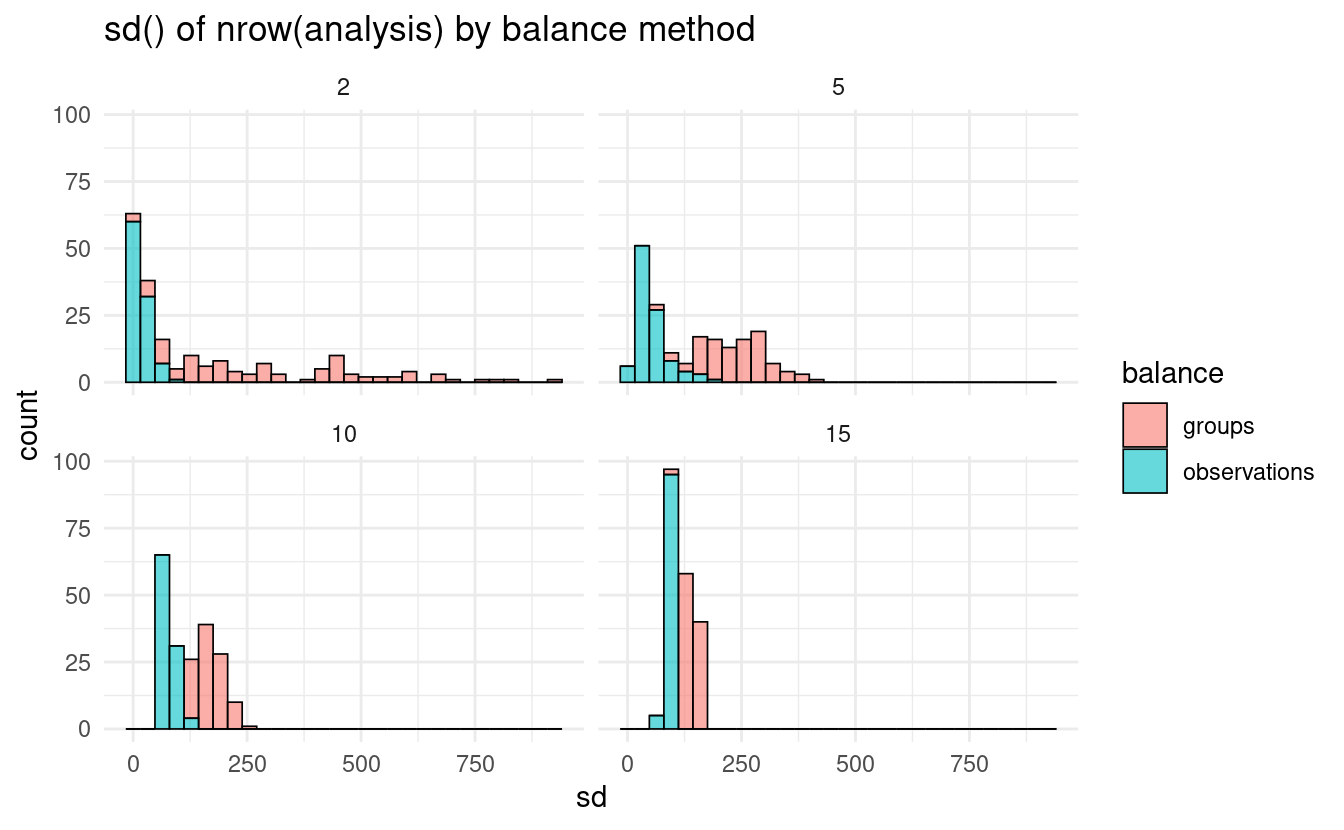
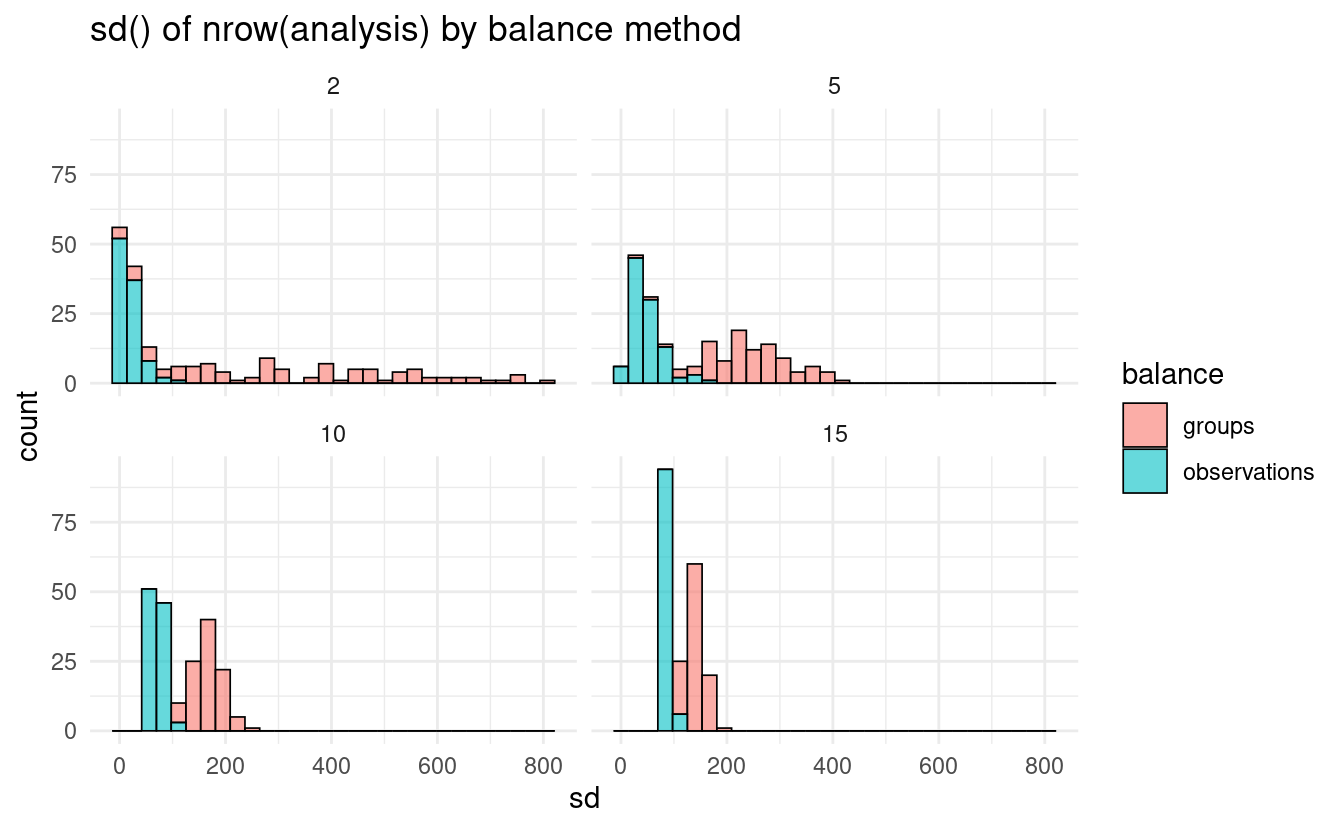
Use older downlit

diff --git a/content/blog/rsample-1-1-0/index.md b/content/blog/rsample-1-1-0/index.md
@@ -38,7 +38,7 @@ You can install it from CRAN with:
 
 <div class="highlight">
 
-<pre class='chroma'><code class='language-r' data-lang='r'><span><span class='nf'><a href='https://rdrr.io/r/utils/install.packages.html'>install.packages</a></span><span class='o'>(</span><span class='s'>"rsample"</span><span class='o'>)</span></span></code></pre>
+<pre class='chroma'><code class='language-r' data-lang='r'><span class='nf'><a href='https://rdrr.io/r/utils/install.packages.html'>install.packages</a></span><span class='o'>(</span><span class='s'>"rsample"</span><span class='o'>)</span></code></pre>
 
 </div>
 
@@ -52,17 +52,18 @@ The rsample package has supported grouped v-fold cross-validation for a few year
 
 <div class="highlight">
 
-<pre class='chroma'><code class='language-r' data-lang='r'><span><span class='kr'><a href='https://rdrr.io/r/base/library.html'>library</a></span><span class='o'>(</span><span class='nv'><a href='http://purrr.tidyverse.org'>purrr</a></span><span class='o'>)</span></span>
-<span><span class='kr'><a href='https://rdrr.io/r/base/library.html'>library</a></span><span class='o'>(</span><span class='nv'><a href='https://rsample.tidymodels.org'>rsample</a></span><span class='o'>)</span></span>
-<span><span class='nf'><a href='https://rdrr.io/r/utils/data.html'>data</a></span><span class='o'>(</span><span class='nv'>ames</span>, package <span class='o'>=</span> <span class='s'>"modeldata"</span><span class='o'>)</span></span>
-<span></span>
-<span><span class='nv'>resample</span> <span class='o'>&lt;-</span> <span class='nf'><a href='https://rsample.tidymodels.org/reference/group_vfold_cv.html'>group_vfold_cv</a></span><span class='o'>(</span><span class='nv'>ames</span>, group <span class='o'>=</span> <span class='nv'>Neighborhood</span>, v <span class='o'>=</span> <span class='m'>2</span><span class='o'>)</span></span>
-<span></span>
-<span><span class='nv'>resample</span><span class='o'>$</span><span class='nv'>splits</span> <span class='o'><a href='https://magrittr.tidyverse.org/reference/pipe.html'>%&gt;%</a></span></span>
-<span>  <span class='nf'><a href='https://purrr.tidyverse.org/reference/map.html'>map_lgl</a></span><span class='o'>(</span><span class='kr'>function</span><span class='o'>(</span><span class='nv'>x</span><span class='o'>)</span> <span class='o'>&#123;</span></span>
-<span>    <span class='nf'><a href='https://rdrr.io/r/base/any.html'>any</a></span><span class='o'>(</span><span class='nf'><a href='https://rsample.tidymodels.org/reference/as.data.frame.rsplit.html'>assessment</a></span><span class='o'>(</span><span class='nv'>x</span><span class='o'>)</span><span class='o'>$</span><span class='nv'>Neighborhood</span> <span class='o'><a href='https://rdrr.io/r/base/match.html'>%in%</a></span> <span class='nf'><a href='https://rsample.tidymodels.org/reference/as.data.frame.rsplit.html'>analysis</a></span><span class='o'>(</span><span class='nv'>x</span><span class='o'>)</span><span class='o'>$</span><span class='nv'>Neighborhood</span><span class='o'>)</span></span>
-<span>  <span class='o'>&#125;</span></span>
-<span><span class='o'>)</span></span><span><span class='c'>#&gt; [1] FALSE FALSE</span></span></code></pre>
+<pre class='chroma'><code class='language-r' data-lang='r'><span class='kr'><a href='https://rdrr.io/r/base/library.html'>library</a></span><span class='o'>(</span><span class='nv'><a href='http://purrr.tidyverse.org'>purrr</a></span><span class='o'>)</span>
+<span class='kr'><a href='https://rdrr.io/r/base/library.html'>library</a></span><span class='o'>(</span><span class='nv'><a href='https://rsample.tidymodels.org'>rsample</a></span><span class='o'>)</span>
+<span class='nf'><a href='https://rdrr.io/r/utils/data.html'>data</a></span><span class='o'>(</span><span class='nv'>ames</span>, package <span class='o'>=</span> <span class='s'>"modeldata"</span><span class='o'>)</span>
+
+<span class='nv'>resample</span> <span class='o'>&lt;-</span> <span class='nf'><a href='https://rsample.tidymodels.org/reference/group_vfold_cv.html'>group_vfold_cv</a></span><span class='o'>(</span><span class='nv'>ames</span>, group <span class='o'>=</span> <span class='nv'>Neighborhood</span>, v <span class='o'>=</span> <span class='m'>2</span><span class='o'>)</span>
+
+<span class='nv'>resample</span><span class='o'>$</span><span class='nv'>splits</span> <span class='o'>%&gt;%</span>
+  <span class='nf'><a href='https://purrr.tidyverse.org/reference/map.html'>map_lgl</a></span><span class='o'>(</span><span class='kr'>function</span><span class='o'>(</span><span class='nv'>x</span><span class='o'>)</span> <span class='o'>&#123;</span>
+    <span class='nf'><a href='https://rdrr.io/r/base/any.html'>any</a></span><span class='o'>(</span><span class='nf'><a href='https://rsample.tidymodels.org/reference/as.data.frame.rsplit.html'>assessment</a></span><span class='o'>(</span><span class='nv'>x</span><span class='o'>)</span><span class='o'>$</span><span class='nv'>Neighborhood</span> <span class='o'>%in%</span> <span class='nf'><a href='https://rsample.tidymodels.org/reference/as.data.frame.rsplit.html'>analysis</a></span><span class='o'>(</span><span class='nv'>x</span><span class='o'>)</span><span class='o'>$</span><span class='nv'>Neighborhood</span><span class='o'>)</span>
+  <span class='o'>&#125;</span>
+<span class='o'>)</span>
+<span class='c'>#&gt; [1] FALSE FALSE</span></code></pre>
 
 </div>
 
@@ -70,30 +71,37 @@ rsample 1.1.0 extends this support by adding four new functions for grouped resa
 
 <div class="highlight">
 
-<pre class='chroma'><code class='language-r' data-lang='r'><span><span class='c'># Bootstrap resampling with replacement:</span></span>
-<span><span class='nf'><a href='https://rsample.tidymodels.org/reference/group_bootstraps.html'>group_bootstraps</a></span><span class='o'>(</span><span class='nv'>ames</span>, <span class='nv'>Neighborhood</span>, times <span class='o'>=</span> <span class='m'>1</span><span class='o'>)</span></span><span><span class='c'>#&gt; # Group bootstrap sampling </span></span>
-<span><span class='c'>#&gt; <span style='color: #555555;'># A tibble: 1 × 2</span></span></span>
-<span><span class='c'>#&gt;   splits             id        </span></span>
-<span><span class='c'>#&gt;   <span style='color: #555555; font-style: italic;'>&lt;list&gt;</span>             <span style='color: #555555; font-style: italic;'>&lt;chr&gt;</span>     </span></span>
-<span><span class='c'>#&gt; <span style='color: #555555;'>1</span> <span style='color: #555555;'>&lt;split [2737/752]&gt;</span> Bootstrap1</span></span><span></span>
-<span></span>
-<span><span class='c'># Random resampling without replacement:</span></span>
-<span><span class='nf'><a href='https://rsample.tidymodels.org/reference/group_mc_cv.html'>group_mc_cv</a></span><span class='o'>(</span><span class='nv'>ames</span>, <span class='nv'>Neighborhood</span>, times <span class='o'>=</span> <span class='m'>1</span><span class='o'>)</span></span><span><span class='c'>#&gt; # Group Monte Carlo cross-validation (0.75/0.25) with 1 resamples  </span></span>
-<span><span class='c'>#&gt; <span style='color: #555555;'># A tibble: 1 × 2</span></span></span>
-<span><span class='c'>#&gt;   splits             id       </span></span>
-<span><span class='c'>#&gt;   <span style='color: #555555; font-style: italic;'>&lt;list&gt;</span>             <span style='color: #555555; font-style: italic;'>&lt;chr&gt;</span>    </span></span>
-<span><span class='c'>#&gt; <span style='color: #555555;'>1</span> <span style='color: #555555;'>&lt;split [2123/807]&gt;</span> Resample1</span></span><span></span>
-<span></span>
-<span><span class='c'># Data splitting to create a validation set:</span></span>
-<span><span class='nf'><a href='https://rsample.tidymodels.org/reference/validation_split.html'>group_validation_split</a></span><span class='o'>(</span><span class='nv'>ames</span>, <span class='nv'>Neighborhood</span><span class='o'>)</span></span><span><span class='c'>#&gt; # Group Validation Set Split (0.75/0.25)  </span></span>
-<span><span class='c'>#&gt; <span style='color: #555555;'># A tibble: 1 × 2</span></span></span>
-<span><span class='c'>#&gt;   splits             id        </span></span>
-<span><span class='c'>#&gt;   <span style='color: #555555; font-style: italic;'>&lt;list&gt;</span>             <span style='color: #555555; font-style: italic;'>&lt;chr&gt;</span>     </span></span>
-<span><span class='c'>#&gt; <span style='color: #555555;'>1</span> <span style='color: #555555;'>&lt;split [2160/770]&gt;</span> validation</span></span><span></span>
-<span></span>
-<span><span class='c'># Data splitting to create an initial training/testing split:</span></span>
-<span><span class='nf'><a href='https://rsample.tidymodels.org/reference/initial_split.html'>group_initial_split</a></span><span class='o'>(</span><span class='nv'>ames</span>, <span class='nv'>Neighborhood</span><span class='o'>)</span></span><span><span class='c'>#&gt; &lt;Training/Testing/Total&gt;</span></span>
-<span><span class='c'>#&gt; &lt;2195/735/2930&gt;</span></span></code></pre>
+<pre class='chroma'><code class='language-r' data-lang='r'><span class='c'># Bootstrap resampling with replacement:</span>
+<span class='nf'><a href='https://rsample.tidymodels.org/reference/group_bootstraps.html'>group_bootstraps</a></span><span class='o'>(</span><span class='nv'>ames</span>, <span class='nv'>Neighborhood</span>, times <span class='o'>=</span> <span class='m'>1</span><span class='o'>)</span>
+<span class='c'>#&gt; # Group bootstrap sampling </span>
+<span class='c'>#&gt; <span style='color: #555555;'># A tibble: 1 × 2</span></span>
+<span class='c'>#&gt;   splits              id        </span>
+<span class='c'>#&gt;   <span style='color: #555555; font-style: italic;'>&lt;list&gt;</span>              <span style='color: #555555; font-style: italic;'>&lt;chr&gt;</span>     </span>
+<span class='c'>#&gt; <span style='color: #555555;'>1</span> <span style='color: #555555;'>&lt;split [3045/1151]&gt;</span> Bootstrap1</span>
+
+
+<span class='c'># Random resampling without replacement:</span>
+<span class='nf'><a href='https://rsample.tidymodels.org/reference/group_mc_cv.html'>group_mc_cv</a></span><span class='o'>(</span><span class='nv'>ames</span>, <span class='nv'>Neighborhood</span>, times <span class='o'>=</span> <span class='m'>1</span><span class='o'>)</span>
+<span class='c'>#&gt; # Group Monte Carlo cross-validation (0.75/0.25) with 1 resamples  </span>
+<span class='c'>#&gt; <span style='color: #555555;'># A tibble: 1 × 2</span></span>
+<span class='c'>#&gt;   splits             id       </span>
+<span class='c'>#&gt;   <span style='color: #555555; font-style: italic;'>&lt;list&gt;</span>             <span style='color: #555555; font-style: italic;'>&lt;chr&gt;</span>    </span>
+<span class='c'>#&gt; <span style='color: #555555;'>1</span> <span style='color: #555555;'>&lt;split [2205/725]&gt;</span> Resample1</span>
+
+
+<span class='c'># Data splitting to create a validation set:</span>
+<span class='nf'><a href='https://rsample.tidymodels.org/reference/validation_split.html'>group_validation_split</a></span><span class='o'>(</span><span class='nv'>ames</span>, <span class='nv'>Neighborhood</span><span class='o'>)</span>
+<span class='c'>#&gt; # Group Validation Set Split (0.75/0.25)  </span>
+<span class='c'>#&gt; <span style='color: #555555;'># A tibble: 1 × 2</span></span>
+<span class='c'>#&gt;   splits             id        </span>
+<span class='c'>#&gt;   <span style='color: #555555; font-style: italic;'>&lt;list&gt;</span>             <span style='color: #555555; font-style: italic;'>&lt;chr&gt;</span>     </span>
+<span class='c'>#&gt; <span style='color: #555555;'>1</span> <span style='color: #555555;'>&lt;split [2188/742]&gt;</span> validation</span>
+
+
+<span class='c'># Data splitting to create an initial training/testing split:</span>
+<span class='nf'><a href='https://rsample.tidymodels.org/reference/initial_split.html'>group_initial_split</a></span><span class='o'>(</span><span class='nv'>ames</span>, <span class='nv'>Neighborhood</span><span class='o'>)</span>
+<span class='c'>#&gt; &lt;Training/Testing/Total&gt;</span>
+<span class='c'>#&gt; &lt;2218/712/2930&gt;</span></code></pre>
 
 </div>
 
@@ -103,22 +111,23 @@ The other big change to grouped resampling comes as a new argument to [`group_vf
 
 <div class="highlight">
 
-<pre class='chroma'><code class='language-r' data-lang='r'><span><span class='nf'><a href='https://rsample.tidymodels.org/reference/group_vfold_cv.html'>group_vfold_cv</a></span><span class='o'>(</span><span class='nv'>ames</span>, <span class='nv'>Neighborhood</span>, balance <span class='o'>=</span> <span class='s'>"observations"</span><span class='o'>)</span></span><span><span class='c'>#&gt; # Group 28-fold cross-validation </span></span>
-<span><span class='c'>#&gt; <span style='color: #555555;'># A tibble: 28 × 2</span></span></span>
-<span><span class='c'>#&gt;    splits             id        </span></span>
-<span><span class='c'>#&gt;    <span style='color: #555555; font-style: italic;'>&lt;list&gt;</span>             <span style='color: #555555; font-style: italic;'>&lt;chr&gt;</span>     </span></span>
-<span><span class='c'>#&gt; <span style='color: #555555;'> 1</span> <span style='color: #555555;'>&lt;split [2902/28]&gt;</span>  Resample01</span></span>
-<span><span class='c'>#&gt; <span style='color: #555555;'> 2</span> <span style='color: #555555;'>&lt;split [2900/30]&gt;</span>  Resample02</span></span>
-<span><span class='c'>#&gt; <span style='color: #555555;'> 3</span> <span style='color: #555555;'>&lt;split [2907/23]&gt;</span>  Resample03</span></span>
-<span><span class='c'>#&gt; <span style='color: #555555;'> 4</span> <span style='color: #555555;'>&lt;split [2691/239]&gt;</span> Resample04</span></span>
-<span><span class='c'>#&gt; <span style='color: #555555;'> 5</span> <span style='color: #555555;'>&lt;split [2816/114]&gt;</span> Resample05</span></span>
-<span><span class='c'>#&gt; <span style='color: #555555;'> 6</span> <span style='color: #555555;'>&lt;split [2906/24]&gt;</span>  Resample06</span></span>
-<span><span class='c'>#&gt; <span style='color: #555555;'> 7</span> <span style='color: #555555;'>&lt;split [2799/131]&gt;</span> Resample07</span></span>
-<span><span class='c'>#&gt; <span style='color: #555555;'> 8</span> <span style='color: #555555;'>&lt;split [2886/44]&gt;</span>  Resample08</span></span>
-<span><span class='c'>#&gt; <span style='color: #555555;'> 9</span> <span style='color: #555555;'>&lt;split [2879/51]&gt;</span>  Resample09</span></span>
-<span><span class='c'>#&gt; <span style='color: #555555;'>10</span> <span style='color: #555555;'>&lt;split [2837/93]&gt;</span>  Resample10</span></span>
-<span><span class='c'>#&gt; <span style='color: #555555;'># … with 18 more rows</span></span></span>
-<span><span class='c'>#&gt; <span style='color: #555555;'># ℹ Use `print(n = ...)` to see more rows</span></span></span></code></pre>
+<pre class='chroma'><code class='language-r' data-lang='r'><span class='nf'><a href='https://rsample.tidymodels.org/reference/group_vfold_cv.html'>group_vfold_cv</a></span><span class='o'>(</span><span class='nv'>ames</span>, <span class='nv'>Neighborhood</span>, balance <span class='o'>=</span> <span class='s'>"observations"</span><span class='o'>)</span>
+<span class='c'>#&gt; # Group 28-fold cross-validation </span>
+<span class='c'>#&gt; <span style='color: #555555;'># A tibble: 28 × 2</span></span>
+<span class='c'>#&gt;    splits             id        </span>
+<span class='c'>#&gt;    <span style='color: #555555; font-style: italic;'>&lt;list&gt;</span>             <span style='color: #555555; font-style: italic;'>&lt;chr&gt;</span>     </span>
+<span class='c'>#&gt; <span style='color: #555555;'> 1</span> <span style='color: #555555;'>&lt;split [2663/267]&gt;</span> Resample01</span>
+<span class='c'>#&gt; <span style='color: #555555;'> 2</span> <span style='color: #555555;'>&lt;split [2859/71]&gt;</span>  Resample02</span>
+<span class='c'>#&gt; <span style='color: #555555;'> 3</span> <span style='color: #555555;'>&lt;split [2882/48]&gt;</span>  Resample03</span>
+<span class='c'>#&gt; <span style='color: #555555;'> 4</span> <span style='color: #555555;'>&lt;split [2487/443]&gt;</span> Resample04</span>
+<span class='c'>#&gt; <span style='color: #555555;'> 5</span> <span style='color: #555555;'>&lt;split [2902/28]&gt;</span>  Resample05</span>
+<span class='c'>#&gt; <span style='color: #555555;'> 6</span> <span style='color: #555555;'>&lt;split [2928/2]&gt;</span>   Resample06</span>
+<span class='c'>#&gt; <span style='color: #555555;'> 7</span> <span style='color: #555555;'>&lt;split [2837/93]&gt;</span>  Resample07</span>
+<span class='c'>#&gt; <span style='color: #555555;'> 8</span> <span style='color: #555555;'>&lt;split [2691/239]&gt;</span> Resample08</span>
+<span class='c'>#&gt; <span style='color: #555555;'> 9</span> <span style='color: #555555;'>&lt;split [2748/182]&gt;</span> Resample09</span>
+<span class='c'>#&gt; <span style='color: #555555;'>10</span> <span style='color: #555555;'>&lt;split [2799/131]&gt;</span> Resample10</span>
+<span class='c'>#&gt; <span style='color: #555555;'># … with 18 more rows</span></span>
+<span class='c'>#&gt; <span style='color: #555555;'># ℹ Use `print(n = ...)` to see more rows</span></span></code></pre>
 
 </div>
 
@@ -126,36 +135,37 @@ This approach works in a similar way to the new grouped resampling functions, at
 
 <div class="highlight">
 
-<pre class='chroma'><code class='language-r' data-lang='r'><span><span class='kr'><a href='https://rdrr.io/r/base/library.html'>library</a></span><span class='o'>(</span><span class='nv'><a href='https://ggplot2.tidyverse.org'>ggplot2</a></span><span class='o'>)</span></span>
-<span><span class='kr'><a href='https://rdrr.io/r/base/library.html'>library</a></span><span class='o'>(</span><span class='nv'><a href='https://dplyr.tidyverse.org'>dplyr</a></span><span class='o'>)</span></span>
-<span></span>
-<span><span class='nv'>analysis_sd</span> <span class='o'>&lt;-</span> <span class='kr'>function</span><span class='o'>(</span><span class='nv'>v</span>, <span class='nv'>balance</span><span class='o'>)</span> <span class='o'>&#123;</span></span>
-<span>  <span class='nf'><a href='https://rsample.tidymodels.org/reference/group_vfold_cv.html'>group_vfold_cv</a></span><span class='o'>(</span></span>
-<span>    <span class='nv'>ames</span>, </span>
-<span>    <span class='nv'>Neighborhood</span>, </span>
-<span>    <span class='nv'>v</span>, </span>
-<span>    balance <span class='o'>=</span> <span class='nv'>balance</span></span>
-<span>  <span class='o'>)</span><span class='o'>$</span><span class='nv'>splits</span> <span class='o'><a href='https://magrittr.tidyverse.org/reference/pipe.html'>%&gt;%</a></span> </span>
-<span>    <span class='nf'>purrr</span><span class='nf'>::</span><span class='nf'><a href='https://purrr.tidyverse.org/reference/map.html'>map_dbl</a></span><span class='o'>(</span><span class='o'>~</span> <span class='nf'><a href='https://rdrr.io/r/base/nrow.html'>nrow</a></span><span class='o'>(</span><span class='nf'><a href='https://rsample.tidymodels.org/reference/as.data.frame.rsplit.html'>analysis</a></span><span class='o'>(</span><span class='nv'>.x</span><span class='o'>)</span><span class='o'>)</span><span class='o'>)</span> <span class='o'><a href='https://magrittr.tidyverse.org/reference/pipe.html'>%&gt;%</a></span> </span>
-<span>    <span class='nf'><a href='https://rdrr.io/r/stats/sd.html'>sd</a></span><span class='o'>(</span><span class='o'>)</span></span>
-<span><span class='o'>&#125;</span></span>
-<span></span>
-<span><span class='nv'>resample</span> <span class='o'>&lt;-</span> <span class='nf'>tidyr</span><span class='nf'>::</span><span class='nf'><a href='https://tidyr.tidyverse.org/reference/expand.html'>crossing</a></span><span class='o'>(</span></span>
-<span>  idx <span class='o'>=</span> <span class='nf'><a href='https://rdrr.io/r/base/seq.html'>seq_len</a></span><span class='o'>(</span><span class='m'>100</span><span class='o'>)</span>,</span>
-<span>  v <span class='o'>=</span> <span class='nf'><a href='https://rdrr.io/r/base/c.html'>c</a></span><span class='o'>(</span><span class='m'>2</span>, <span class='m'>5</span>, <span class='m'>10</span>, <span class='m'>15</span><span class='o'>)</span>,</span>
-<span>  balance <span class='o'>=</span> <span class='nf'><a href='https://rdrr.io/r/base/c.html'>c</a></span><span class='o'>(</span><span class='s'>"groups"</span>, <span class='s'>"observations"</span><span class='o'>)</span></span>
-<span><span class='o'>)</span></span>
-<span></span>
-<span><span class='nv'>resample</span> <span class='o'><a href='https://magrittr.tidyverse.org/reference/pipe.html'>%&gt;%</a></span></span>
-<span>  <span class='nf'><a href='https://dplyr.tidyverse.org/reference/mutate.html'>mutate</a></span><span class='o'>(</span>sd <span class='o'>=</span> <span class='nf'>purrr</span><span class='nf'>::</span><span class='nf'><a href='https://purrr.tidyverse.org/reference/map2.html'>pmap_dbl</a></span><span class='o'>(</span></span>
-<span>    <span class='nf'><a href='https://rdrr.io/r/base/list.html'>list</a></span><span class='o'>(</span><span class='nv'>v</span>, <span class='nv'>balance</span><span class='o'>)</span>,</span>
-<span>    <span class='nv'>analysis_sd</span></span>
-<span>  <span class='o'>)</span><span class='o'>)</span> <span class='o'><a href='https://magrittr.tidyverse.org/reference/pipe.html'>%&gt;%</a></span></span>
-<span>  <span class='nf'><a href='https://ggplot2.tidyverse.org/reference/ggplot.html'>ggplot</a></span><span class='o'>(</span><span class='nf'><a href='https://ggplot2.tidyverse.org/reference/aes.html'>aes</a></span><span class='o'>(</span><span class='nv'>sd</span>, fill <span class='o'>=</span> <span class='nv'>balance</span><span class='o'>)</span><span class='o'>)</span> <span class='o'>+</span> </span>
-<span>  <span class='nf'><a href='https://ggplot2.tidyverse.org/reference/geom_histogram.html'>geom_histogram</a></span><span class='o'>(</span>alpha <span class='o'>=</span> <span class='m'>0.6</span>, color <span class='o'>=</span> <span class='s'>"black"</span>, size <span class='o'>=</span> <span class='m'>0.3</span><span class='o'>)</span> <span class='o'>+</span> </span>
-<span>  <span class='nf'><a href='https://ggplot2.tidyverse.org/reference/facet_wrap.html'>facet_wrap</a></span><span class='o'>(</span><span class='o'>~</span> <span class='nv'>v</span><span class='o'>)</span> <span class='o'>+</span> </span>
-<span>  <span class='nf'><a href='https://ggplot2.tidyverse.org/reference/ggtheme.html'>theme_minimal</a></span><span class='o'>(</span><span class='o'>)</span> <span class='o'>+</span> </span>
-<span>  <span class='nf'><a href='https://ggplot2.tidyverse.org/reference/labs.html'>labs</a></span><span class='o'>(</span>title <span class='o'>=</span> <span class='s'>"sd() of nrow(analysis) by balance method"</span><span class='o'>)</span></span></code></pre>
+<pre class='chroma'><code class='language-r' data-lang='r'><span class='kr'><a href='https://rdrr.io/r/base/library.html'>library</a></span><span class='o'>(</span><span class='nv'><a href='https://ggplot2.tidyverse.org'>ggplot2</a></span><span class='o'>)</span>
+<span class='kr'><a href='https://rdrr.io/r/base/library.html'>library</a></span><span class='o'>(</span><span class='nv'><a href='https://dplyr.tidyverse.org'>dplyr</a></span><span class='o'>)</span>
+
+<span class='nv'>analysis_sd</span> <span class='o'>&lt;-</span> <span class='kr'>function</span><span class='o'>(</span><span class='nv'>v</span>, <span class='nv'>balance</span><span class='o'>)</span> <span class='o'>&#123;</span>
+  <span class='nf'><a href='https://rsample.tidymodels.org/reference/group_vfold_cv.html'>group_vfold_cv</a></span><span class='o'>(</span>
+    <span class='nv'>ames</span>, 
+    <span class='nv'>Neighborhood</span>, 
+    <span class='nv'>v</span>, 
+    balance <span class='o'>=</span> <span class='nv'>balance</span>
+  <span class='o'>)</span><span class='o'>$</span><span class='nv'>splits</span> <span class='o'>%&gt;%</span> 
+    <span class='nf'>purrr</span><span class='nf'>::</span><span class='nf'><a href='https://purrr.tidyverse.org/reference/map.html'>map_dbl</a></span><span class='o'>(</span><span class='o'>~</span> <span class='nf'><a href='https://rdrr.io/r/base/nrow.html'>nrow</a></span><span class='o'>(</span><span class='nf'><a href='https://rsample.tidymodels.org/reference/as.data.frame.rsplit.html'>analysis</a></span><span class='o'>(</span><span class='nv'>.x</span><span class='o'>)</span><span class='o'>)</span><span class='o'>)</span> <span class='o'>%&gt;%</span> 
+    <span class='nf'><a href='https://rdrr.io/r/stats/sd.html'>sd</a></span><span class='o'>(</span><span class='o'>)</span>
+<span class='o'>&#125;</span>
+
+<span class='nv'>resample</span> <span class='o'>&lt;-</span> <span class='nf'>tidyr</span><span class='nf'>::</span><span class='nf'><a href='https://tidyr.tidyverse.org/reference/expand.html'>crossing</a></span><span class='o'>(</span>
+  idx <span class='o'>=</span> <span class='nf'><a href='https://rdrr.io/r/base/seq.html'>seq_len</a></span><span class='o'>(</span><span class='m'>100</span><span class='o'>)</span>,
+  v <span class='o'>=</span> <span class='nf'><a href='https://rdrr.io/r/base/c.html'>c</a></span><span class='o'>(</span><span class='m'>2</span>, <span class='m'>5</span>, <span class='m'>10</span>, <span class='m'>15</span><span class='o'>)</span>,
+  balance <span class='o'>=</span> <span class='nf'><a href='https://rdrr.io/r/base/c.html'>c</a></span><span class='o'>(</span><span class='s'>"groups"</span>, <span class='s'>"observations"</span><span class='o'>)</span>
+<span class='o'>)</span>
+
+<span class='nv'>resample</span> <span class='o'>%&gt;%</span>
+  <span class='nf'><a href='https://dplyr.tidyverse.org/reference/mutate.html'>mutate</a></span><span class='o'>(</span>sd <span class='o'>=</span> <span class='nf'>purrr</span><span class='nf'>::</span><span class='nf'><a href='https://purrr.tidyverse.org/reference/map2.html'>pmap_dbl</a></span><span class='o'>(</span>
+    <span class='nf'><a href='https://rdrr.io/r/base/list.html'>list</a></span><span class='o'>(</span><span class='nv'>v</span>, <span class='nv'>balance</span><span class='o'>)</span>,
+    <span class='nv'>analysis_sd</span>
+  <span class='o'>)</span><span class='o'>)</span> <span class='o'>%&gt;%</span>
+  <span class='nf'><a href='https://ggplot2.tidyverse.org/reference/ggplot.html'>ggplot</a></span><span class='o'>(</span><span class='nf'><a href='https://ggplot2.tidyverse.org/reference/aes.html'>aes</a></span><span class='o'>(</span><span class='nv'>sd</span>, fill <span class='o'>=</span> <span class='nv'>balance</span><span class='o'>)</span><span class='o'>)</span> <span class='o'>+</span> 
+  <span class='nf'><a href='https://ggplot2.tidyverse.org/reference/geom_histogram.html'>geom_histogram</a></span><span class='o'>(</span>alpha <span class='o'>=</span> <span class='m'>0.6</span>, color <span class='o'>=</span> <span class='s'>"black"</span>, size <span class='o'>=</span> <span class='m'>0.3</span><span class='o'>)</span> <span class='o'>+</span> 
+  <span class='nf'><a href='https://ggplot2.tidyverse.org/reference/facet_wrap.html'>facet_wrap</a></span><span class='o'>(</span><span class='o'>~</span> <span class='nv'>v</span><span class='o'>)</span> <span class='o'>+</span> 
+  <span class='nf'><a href='https://ggplot2.tidyverse.org/reference/ggtheme.html'>theme_minimal</a></span><span class='o'>(</span><span class='o'>)</span> <span class='o'>+</span> 
+  <span class='nf'><a href='https://ggplot2.tidyverse.org/reference/labs.html'>labs</a></span><span class='o'>(</span>title <span class='o'>=</span> <span class='s'>"sd() of nrow(analysis) by balance method"</span><span class='o'>)</span>
+</code></pre>
 <img src="figs/unnamed-chunk-4-1.png" width="700px" style="display: block; margin: auto;" />
 
 </div>
@@ -170,30 +180,33 @@ For instance, the new [`reshuffle_rset()`](https://rsample.tidymodels.org/refere
 
 <div class="highlight">
 
-<pre class='chroma'><code class='language-r' data-lang='r'><span><span class='nf'><a href='https://rdrr.io/r/base/Random.html'>set.seed</a></span><span class='o'>(</span><span class='m'>123</span><span class='o'>)</span></span>
-<span><span class='nv'>resample</span> <span class='o'>&lt;-</span> <span class='nf'><a href='https://rsample.tidymodels.org/reference/vfold_cv.html'>vfold_cv</a></span><span class='o'>(</span><span class='nv'>mtcars</span><span class='o'>)</span></span>
-<span></span>
-<span><span class='nv'>resample</span><span class='o'>$</span><span class='nv'>splits</span><span class='o'>[[</span><span class='m'>1</span><span class='o'>]</span><span class='o'>]</span> <span class='o'><a href='https://magrittr.tidyverse.org/reference/pipe.html'>%&gt;%</a></span></span>
-<span>  <span class='nf'><a href='https://rsample.tidymodels.org/reference/as.data.frame.rsplit.html'>analysis</a></span><span class='o'>(</span><span class='o'>)</span> <span class='o'><a href='https://magrittr.tidyverse.org/reference/pipe.html'>%&gt;%</a></span></span>
-<span>  <span class='nf'><a href='https://rdrr.io/r/utils/head.html'>head</a></span><span class='o'>(</span><span class='o'>)</span></span><span><span class='c'>#&gt;                    mpg cyl disp  hp drat    wt  qsec vs am gear carb</span></span>
-<span><span class='c'>#&gt; Mazda RX4 Wag     21.0   6  160 110 3.90 2.875 17.02  0  1    4    4</span></span>
-<span><span class='c'>#&gt; Datsun 710        22.8   4  108  93 3.85 2.320 18.61  1  1    4    1</span></span>
-<span><span class='c'>#&gt; Hornet 4 Drive    21.4   6  258 110 3.08 3.215 19.44  1  0    3    1</span></span>
-<span><span class='c'>#&gt; Hornet Sportabout 18.7   8  360 175 3.15 3.440 17.02  0  0    3    2</span></span>
-<span><span class='c'>#&gt; Valiant           18.1   6  225 105 2.76 3.460 20.22  1  0    3    1</span></span>
-<span><span class='c'>#&gt; Duster 360        14.3   8  360 245 3.21 3.570 15.84  0  0    3    4</span></span><span></span>
-<span></span>
-<span><span class='nv'>resample</span> <span class='o'>&lt;-</span> <span class='nf'><a href='https://rsample.tidymodels.org/reference/reshuffle_rset.html'>reshuffle_rset</a></span><span class='o'>(</span><span class='nv'>resample</span><span class='o'>)</span></span>
-<span></span>
-<span><span class='nv'>resample</span><span class='o'>$</span><span class='nv'>splits</span><span class='o'>[[</span><span class='m'>1</span><span class='o'>]</span><span class='o'>]</span> <span class='o'><a href='https://magrittr.tidyverse.org/reference/pipe.html'>%&gt;%</a></span></span>
-<span>  <span class='nf'><a href='https://rsample.tidymodels.org/reference/as.data.frame.rsplit.html'>analysis</a></span><span class='o'>(</span><span class='o'>)</span> <span class='o'><a href='https://magrittr.tidyverse.org/reference/pipe.html'>%&gt;%</a></span></span>
-<span>  <span class='nf'><a href='https://rdrr.io/r/utils/head.html'>head</a></span><span class='o'>(</span><span class='o'>)</span></span><span><span class='c'>#&gt;                    mpg cyl disp  hp drat    wt  qsec vs am gear carb</span></span>
-<span><span class='c'>#&gt; Mazda RX4         21.0   6  160 110 3.90 2.620 16.46  0  1    4    4</span></span>
-<span><span class='c'>#&gt; Mazda RX4 Wag     21.0   6  160 110 3.90 2.875 17.02  0  1    4    4</span></span>
-<span><span class='c'>#&gt; Datsun 710        22.8   4  108  93 3.85 2.320 18.61  1  1    4    1</span></span>
-<span><span class='c'>#&gt; Hornet 4 Drive    21.4   6  258 110 3.08 3.215 19.44  1  0    3    1</span></span>
-<span><span class='c'>#&gt; Hornet Sportabout 18.7   8  360 175 3.15 3.440 17.02  0  0    3    2</span></span>
-<span><span class='c'>#&gt; Duster 360        14.3   8  360 245 3.21 3.570 15.84  0  0    3    4</span></span></code></pre>
+<pre class='chroma'><code class='language-r' data-lang='r'><span class='nf'><a href='https://rdrr.io/r/base/Random.html'>set.seed</a></span><span class='o'>(</span><span class='m'>123</span><span class='o'>)</span>
+<span class='nv'>resample</span> <span class='o'>&lt;-</span> <span class='nf'><a href='https://rsample.tidymodels.org/reference/vfold_cv.html'>vfold_cv</a></span><span class='o'>(</span><span class='nv'>mtcars</span><span class='o'>)</span>
+
+<span class='nv'>resample</span><span class='o'>$</span><span class='nv'>splits</span><span class='o'>[[</span><span class='m'>1</span><span class='o'>]</span><span class='o'>]</span> <span class='o'>%&gt;%</span>
+  <span class='nf'><a href='https://rsample.tidymodels.org/reference/as.data.frame.rsplit.html'>analysis</a></span><span class='o'>(</span><span class='o'>)</span> <span class='o'>%&gt;%</span>
+  <span class='nf'><a href='https://rdrr.io/r/utils/head.html'>head</a></span><span class='o'>(</span><span class='o'>)</span>
+<span class='c'>#&gt;                    mpg cyl disp  hp drat    wt  qsec vs am gear carb</span>
+<span class='c'>#&gt; Mazda RX4 Wag     21.0   6  160 110 3.90 2.875 17.02  0  1    4    4</span>
+<span class='c'>#&gt; Datsun 710        22.8   4  108  93 3.85 2.320 18.61  1  1    4    1</span>
+<span class='c'>#&gt; Hornet 4 Drive    21.4   6  258 110 3.08 3.215 19.44  1  0    3    1</span>
+<span class='c'>#&gt; Hornet Sportabout 18.7   8  360 175 3.15 3.440 17.02  0  0    3    2</span>
+<span class='c'>#&gt; Valiant           18.1   6  225 105 2.76 3.460 20.22  1  0    3    1</span>
+<span class='c'>#&gt; Duster 360        14.3   8  360 245 3.21 3.570 15.84  0  0    3    4</span>
+
+
+<span class='nv'>resample</span> <span class='o'>&lt;-</span> <span class='nf'><a href='https://rsample.tidymodels.org/reference/reshuffle_rset.html'>reshuffle_rset</a></span><span class='o'>(</span><span class='nv'>resample</span><span class='o'>)</span>
+
+<span class='nv'>resample</span><span class='o'>$</span><span class='nv'>splits</span><span class='o'>[[</span><span class='m'>1</span><span class='o'>]</span><span class='o'>]</span> <span class='o'>%&gt;%</span>
+  <span class='nf'><a href='https://rsample.tidymodels.org/reference/as.data.frame.rsplit.html'>analysis</a></span><span class='o'>(</span><span class='o'>)</span> <span class='o'>%&gt;%</span>
+  <span class='nf'><a href='https://rdrr.io/r/utils/head.html'>head</a></span><span class='o'>(</span><span class='o'>)</span>
+<span class='c'>#&gt;                    mpg cyl disp  hp drat    wt  qsec vs am gear carb</span>
+<span class='c'>#&gt; Mazda RX4         21.0   6  160 110 3.90 2.620 16.46  0  1    4    4</span>
+<span class='c'>#&gt; Mazda RX4 Wag     21.0   6  160 110 3.90 2.875 17.02  0  1    4    4</span>
+<span class='c'>#&gt; Datsun 710        22.8   4  108  93 3.85 2.320 18.61  1  1    4    1</span>
+<span class='c'>#&gt; Hornet 4 Drive    21.4   6  258 110 3.08 3.215 19.44  1  0    3    1</span>
+<span class='c'>#&gt; Hornet Sportabout 18.7   8  360 175 3.15 3.440 17.02  0  0    3    2</span>
+<span class='c'>#&gt; Duster 360        14.3   8  360 245 3.21 3.570 15.84  0  0    3    4</span></code></pre>
 
 </div>
 
@@ -203,12 +216,15 @@ Additionally, the new [`reverse_splits()`](https://rsample.tidymodels.org/refere
 
 <div class="highlight">
 
-<pre class='chroma'><code class='language-r' data-lang='r'><span><span class='nv'>resample</span> <span class='o'>&lt;-</span> <span class='nf'><a href='https://rsample.tidymodels.org/reference/initial_split.html'>initial_split</a></span><span class='o'>(</span><span class='nv'>mtcars</span><span class='o'>)</span></span>
-<span><span class='nv'>resample</span></span><span><span class='c'>#&gt; &lt;Training/Testing/Total&gt;</span></span>
-<span><span class='c'>#&gt; &lt;24/8/32&gt;</span></span><span></span>
-<span></span>
-<span><span class='nf'><a href='https://rsample.tidymodels.org/reference/reverse_splits.html'>reverse_splits</a></span><span class='o'>(</span><span class='nv'>resample</span><span class='o'>)</span></span><span><span class='c'>#&gt; &lt;Training/Testing/Total&gt;</span></span>
-<span><span class='c'>#&gt; &lt;8/24/32&gt;</span></span></code></pre>
+<pre class='chroma'><code class='language-r' data-lang='r'><span class='nv'>resample</span> <span class='o'>&lt;-</span> <span class='nf'><a href='https://rsample.tidymodels.org/reference/initial_split.html'>initial_split</a></span><span class='o'>(</span><span class='nv'>mtcars</span><span class='o'>)</span>
+<span class='nv'>resample</span>
+<span class='c'>#&gt; &lt;Training/Testing/Total&gt;</span>
+<span class='c'>#&gt; &lt;24/8/32&gt;</span>
+
+
+<span class='nf'><a href='https://rsample.tidymodels.org/reference/reverse_splits.html'>reverse_splits</a></span><span class='o'>(</span><span class='nv'>resample</span><span class='o'>)</span>
+<span class='c'>#&gt; &lt;Training/Testing/Total&gt;</span>
+<span class='c'>#&gt; &lt;8/24/32&gt;</span></code></pre>
 
 </div>
 
